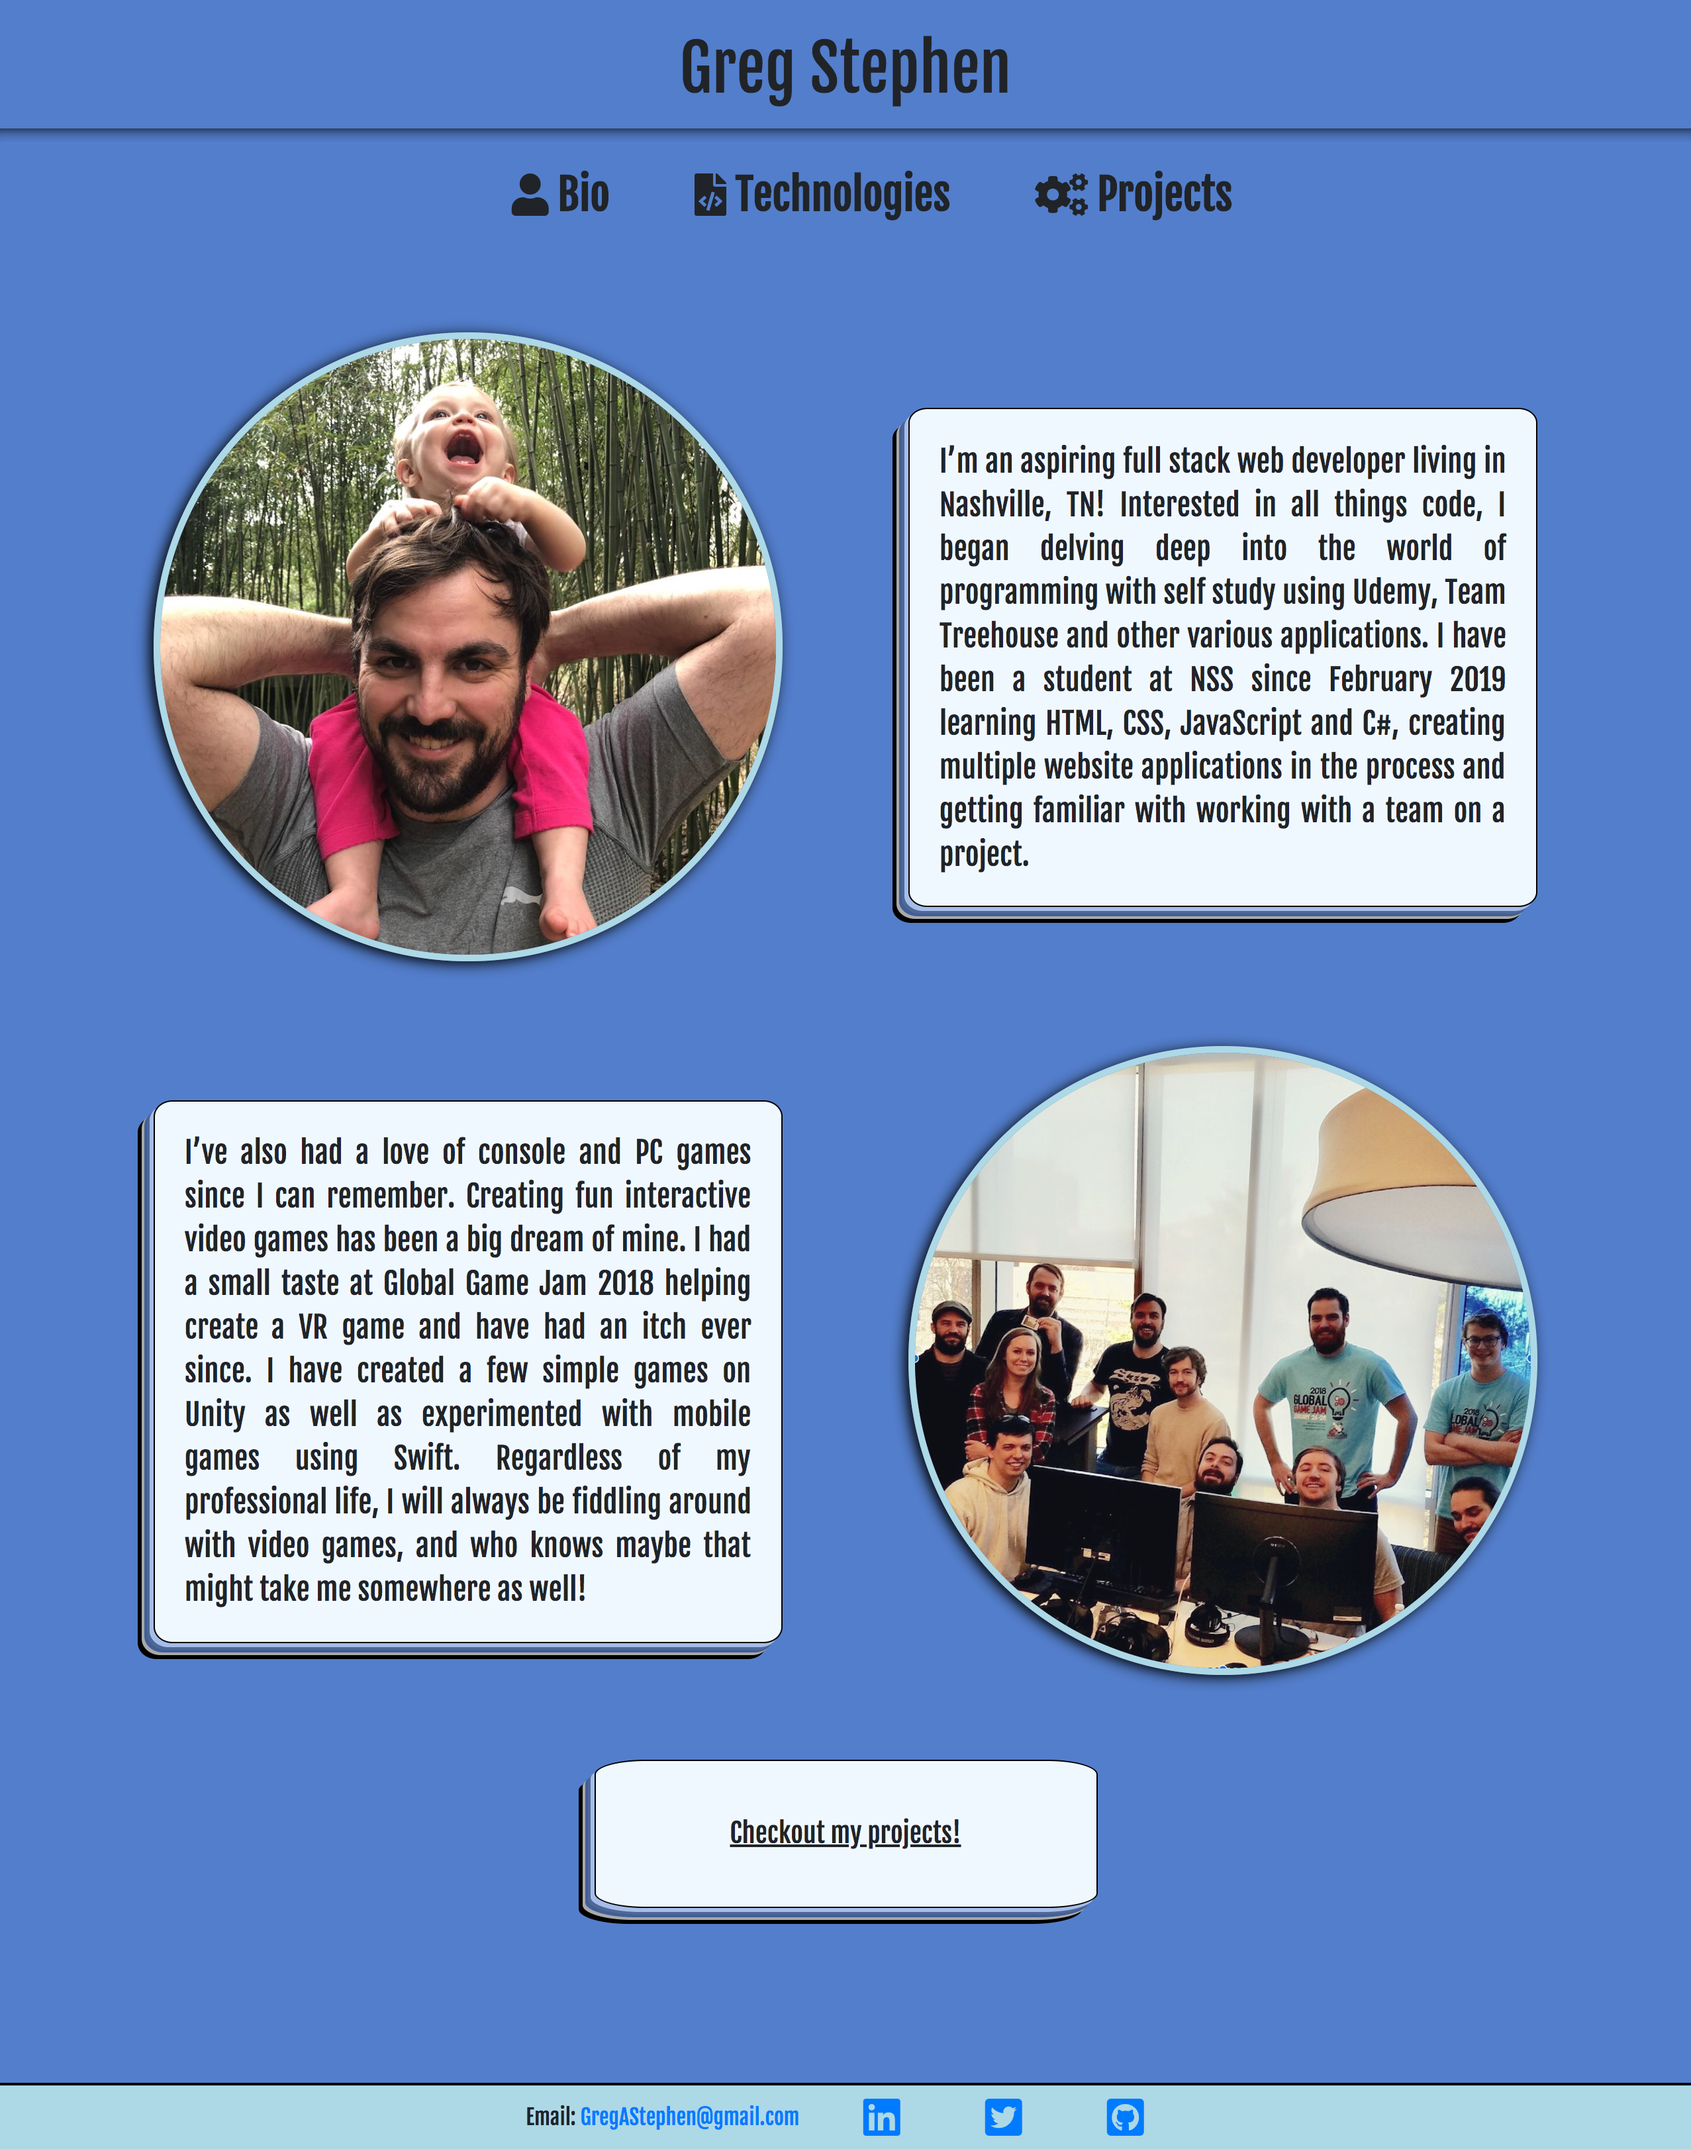
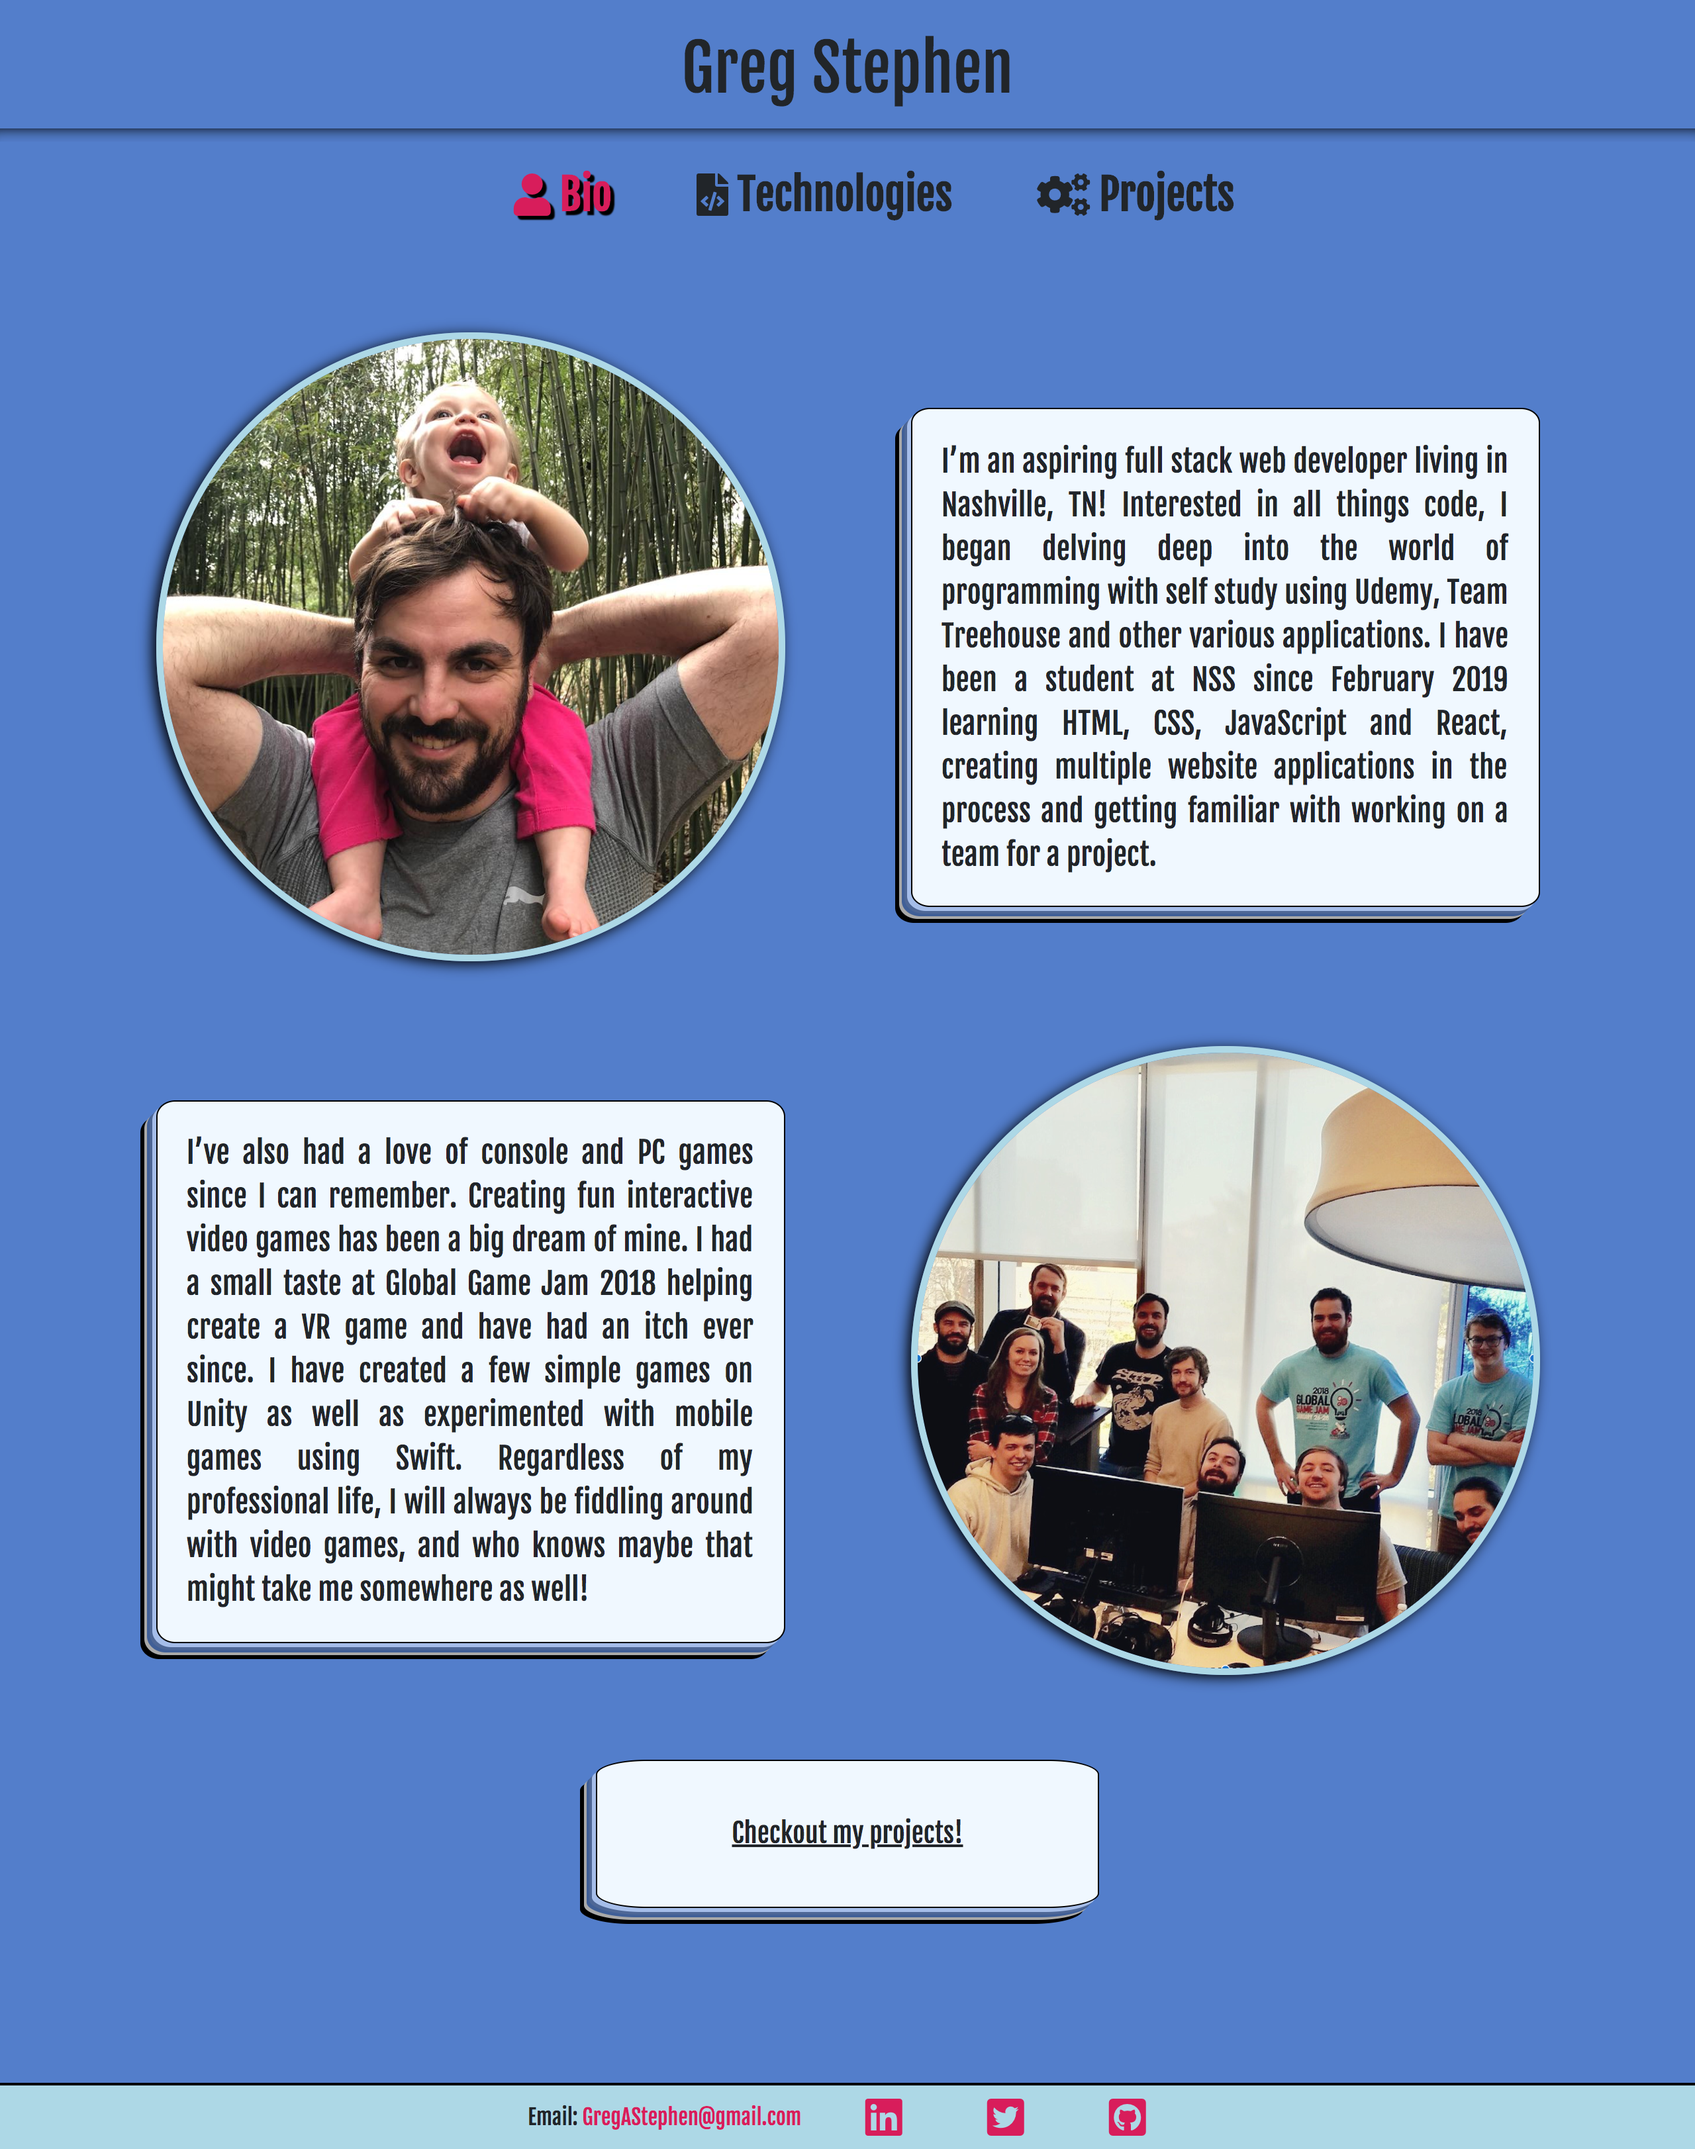
updated color of links and readme

diff --git a/public/javascripts/components/Projects/Projects.js b/public/javascripts/components/Projects/Projects.js
@@ -21,6 +21,7 @@ const createProjectCards = () => {
         domString +=    `<img class="projectScreenshot" src=${project.screenshot}>`;
         domString +=    `<hr class="hrUp">`;
         domString +=    `<p class="projectDescription">${project.description}</p>`;
+        domString +=    '<p>Technology Used:</p>';
         domString +=    '<div class="projectTechUsed container">'
         domString +=      '<div class="row align-items-center justify-content-around">';
         project.techUsed.forEach((tech) => {
@@ -29,7 +30,7 @@ const createProjectCards = () => {
         })
         domString +=  '</div>';
         domString += '</div>';
-        domString +=    `<p class="url">See it <a target="_blank" href=${project.deployLink}>here</a></p>`;
+        domString +=    `<p class="url">Checkout <a target="_blank" href=${project.deployLink}>${project.title}</a></p>`;
         domString +=    `<p class="githubUrl"><a class="fab fa-2x fa-github-alt" target="_blank" href=${project.githubLink}></a></p>`;
         domString += `</div>`;
       })

diff --git a/public/javascripts/components/Bio/Bio.js b/public/javascripts/components/Bio/Bio.js
@@ -6,7 +6,7 @@ const buildBioPage = () => {
   domString += '<img id="bioPic" class="col-12 col-sm-5 col-lg-5" src="../assets/pictures/me_and_lu.jpg" alt="me and my daughter">';
   domString += '<p class="bioBit col-12 col-sm-5 offset-sm-1 col-lg-5">I’m an aspiring full stack web developer living in Nashville, TN! Interested in all things code, ';
   domString += 'I began delving deep into the world of programming with self study using Udemy, Team Treehouse and other various applications. ';
-  domString += 'I have been a student at NSS since February 2019 learning HTML, CSS, JavaScript and C#, creating multiple website applications in the process ';
+  domString += 'I have been a student at NSS since February 2019 learning HTML, CSS, JavaScript and React, creating multiple website applications in the process ';
   domString += 'and getting familiar with working on a team for a project.';
   domString += '</p>';
   domString += '</div>';

diff --git a/public/main.css b/public/main.css
@@ -8,8 +8,12 @@ body {
 
 a {
     text-decoration: none;
+    color:#D81E5B;
 }
 
+a:hover {
+    color:rgb(173, 23, 73);
+}
 .fab:hover {
     text-decoration: none;
 }
@@ -95,6 +99,9 @@ li:hover {
 }
 .projectTechUsed {
     margin-bottom: 1em;
+    padding: 1em;
+    border: 1px solid black;
+    box-shadow: -3px 3px 0px black;
 }
 .tech-icon {
     max-height: 2em;

diff --git a/README.md b/README.md
@@ -16,11 +16,17 @@
 #### Mobile projects page:
 ![Mobile Page Load](./assets/screenshots/projects_page_mobile.png)
 
+#### Technologies page:
+![Technologies Page](./assets/screenshots/techn_page.png)
+
 ## Technologies Used: 
 * HTML5
 * CSS
 * JavaScript
 * Flexbox
+
+## View Deployed Site at
+https://personal-website-9263b.firebaseapp.com/
 
 ## How to run:
 
